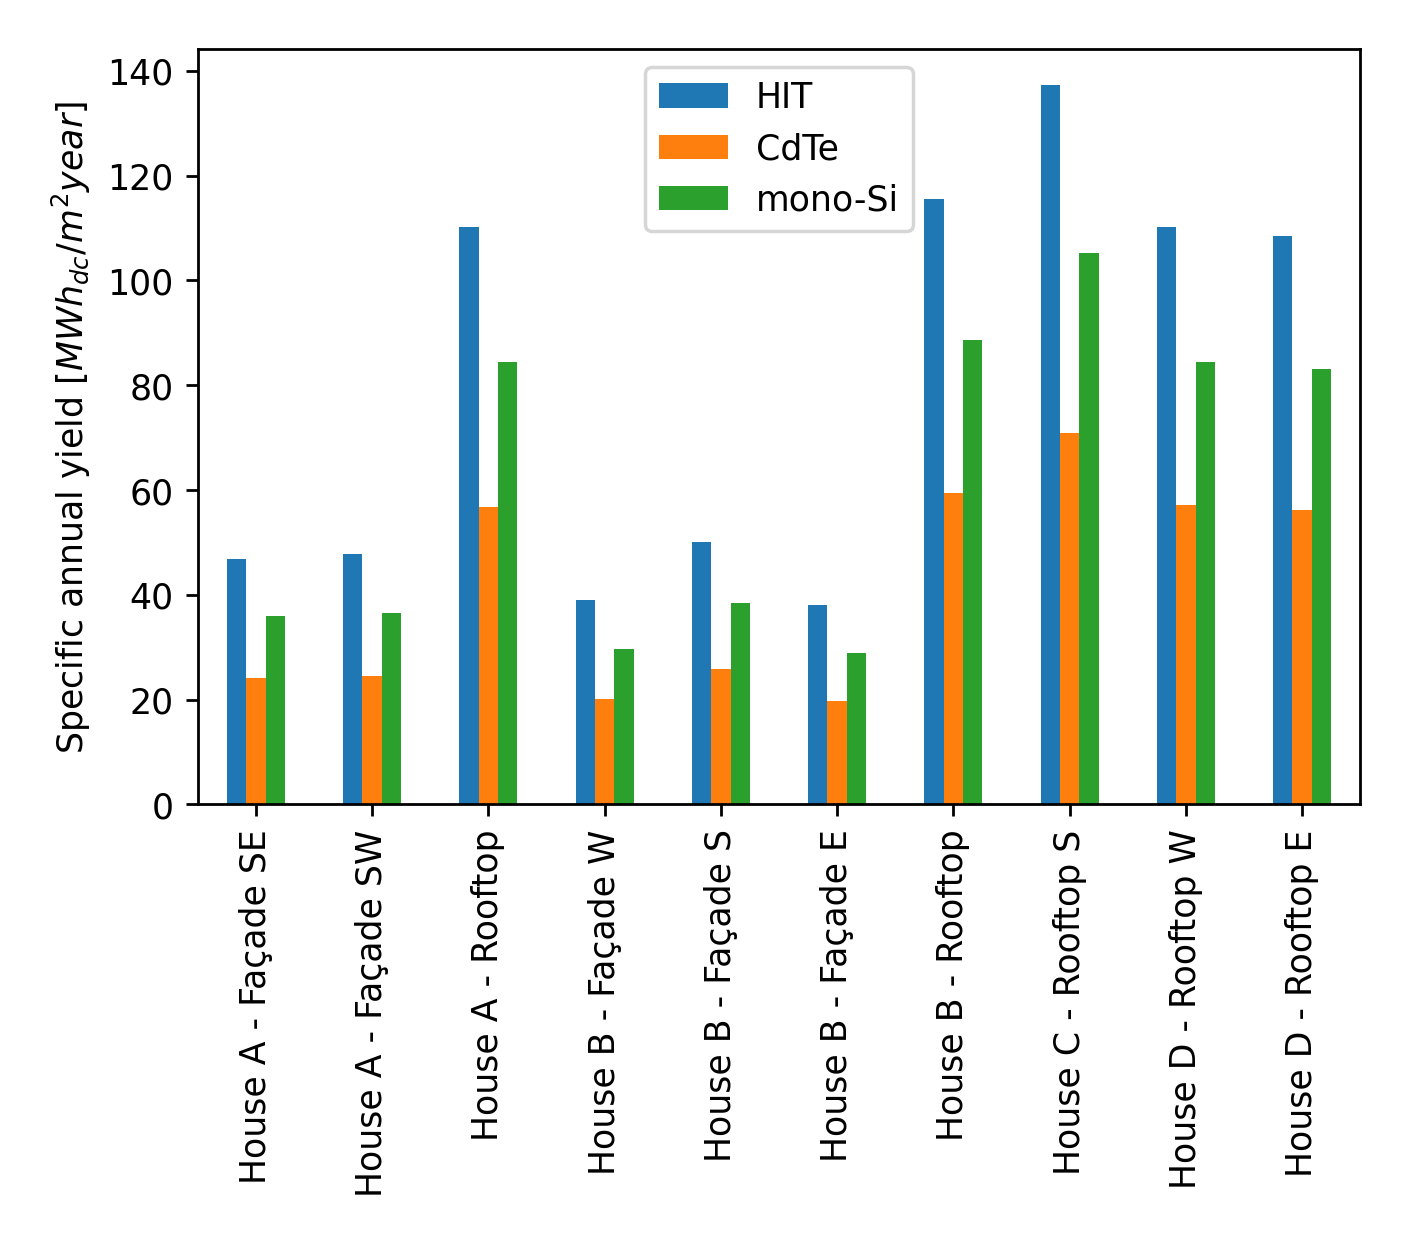
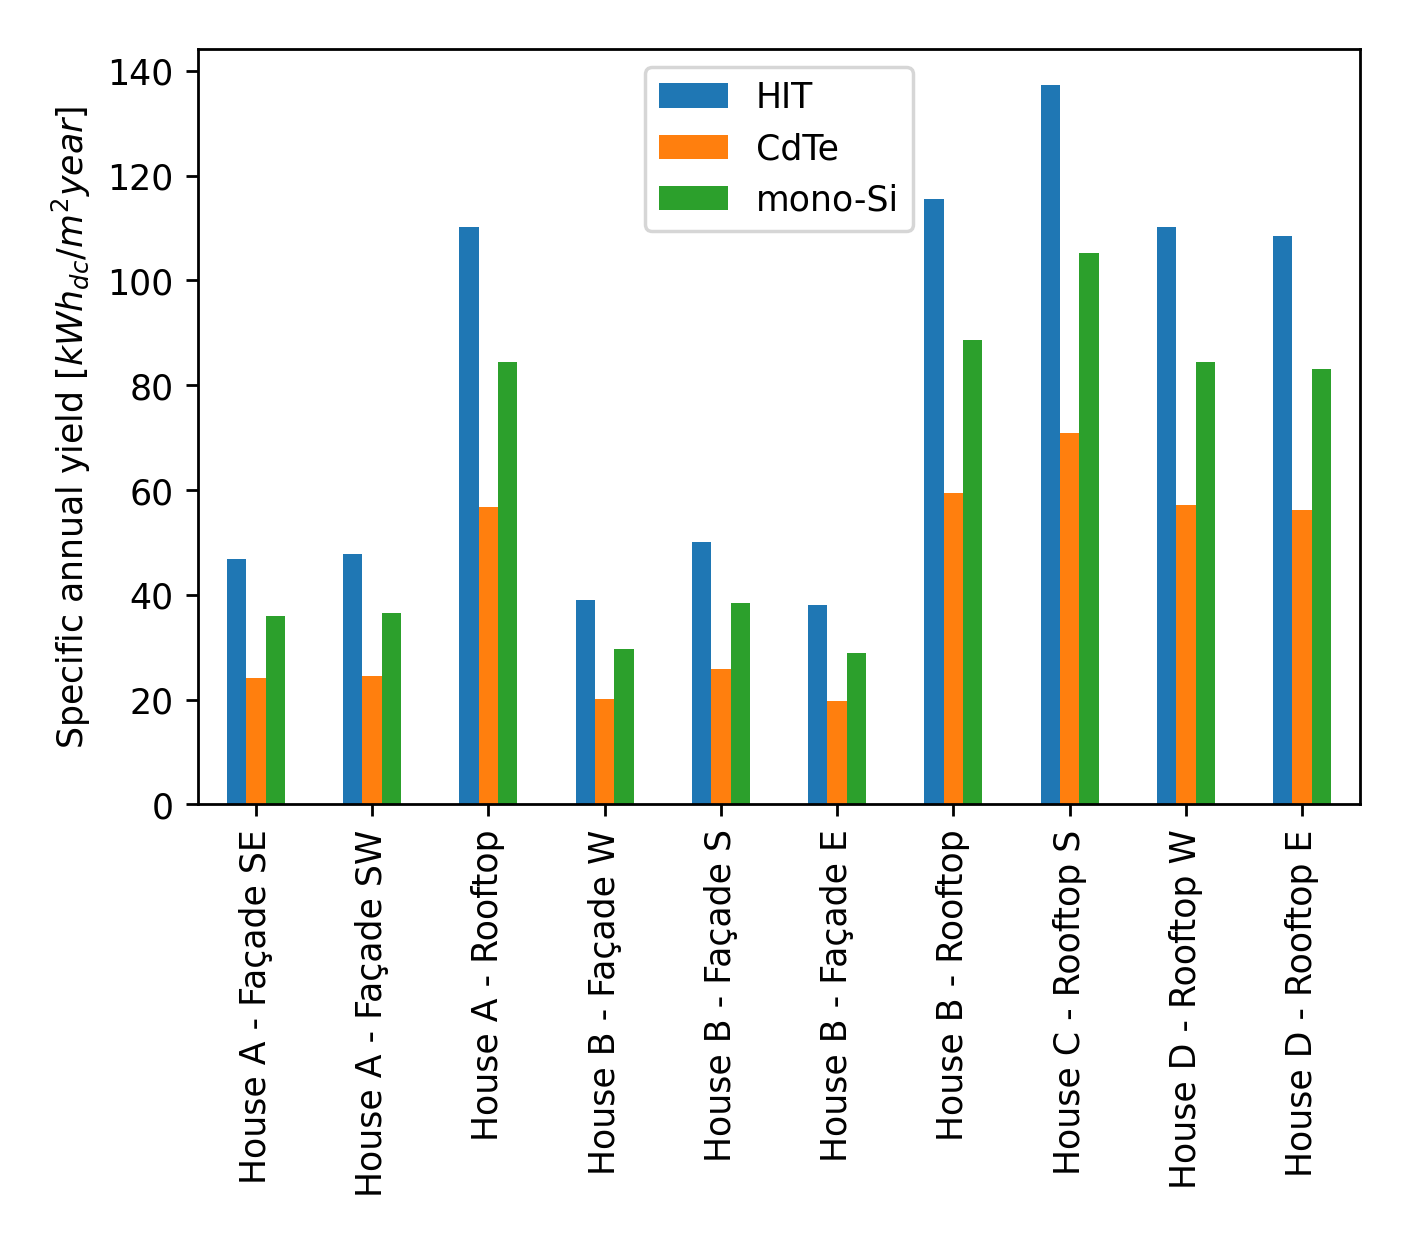
Change the specific annual yield back to kWh

Changed region(s): [[0.0312, 0.061, 0.0624, 0.61]]

diff --git a/src/question3.py b/src/question3.py
@@ -252,22 +252,22 @@ buildings = calculate_capacity(buildings)
 buildings = calculate_power_output(buildings)
 
 # Create bar charts for the total and specific annual yield
-create_bar_chart_for_all_modules(
-    'total_annual_yield_dc', scale=0.001, filename='total_annual_yield_dc', ylabel='Total annual yield [$MWh_{dc} / year$]')
-create_bar_chart_for_all_modules(
-    'total_annual_yield_ac', scale=0.001, filename='total_annual_yield_ac', ylabel='Total annual yield [$MWh_{ac} / year$]')
-create_table_pv_systems()
+# create_bar_chart_for_all_modules(
+#     'total_annual_yield_dc', scale=0.001, filename='total_annual_yield_dc', ylabel='Total annual yield [$MWh_{dc} / year$]')
+# create_bar_chart_for_all_modules(
+#     'total_annual_yield_ac', scale=0.001, filename='total_annual_yield_ac', ylabel='Total annual yield [$MWh_{ac} / year$]')
+# create_table_pv_systems()
 
 # Question 4
 create_bar_chart_for_best_module(
     'total_annual_yield_ac', scale=0.0001, filename='total_annual_yield_ac_best', ylabel='Total annual yield [$MWh_{ac} / year$]')
 create_bar_chart_for_all_modules('specific_annual_yield_dc', filename='specific_annual_yield_dc',
-                                 ylabel='Specific annual yield [$MWh_{dc} / m^2 year$]')
+                                 ylabel='Specific annual yield [$kWh_{dc} / m^2 year$]')
 create_bar_chart_for_all_modules(
     'annual_inverter_efficiency', filename='annual_inverter_efficiency', ylabel='Annual inverter efficiency')
 create_bar_chart_per_building()
 create_line_chart_for_day(['2019-03-01', '2019-06-01', '2019-09-01'])
 
 # Save the buildings info in a new JSON file
-utils.files.save_json_file(
-    buildings, filepath='../output/question3/buildings.json')
+# utils.files.save_json_file(
+#     buildings, filepath='../output/question3/buildings.json')
